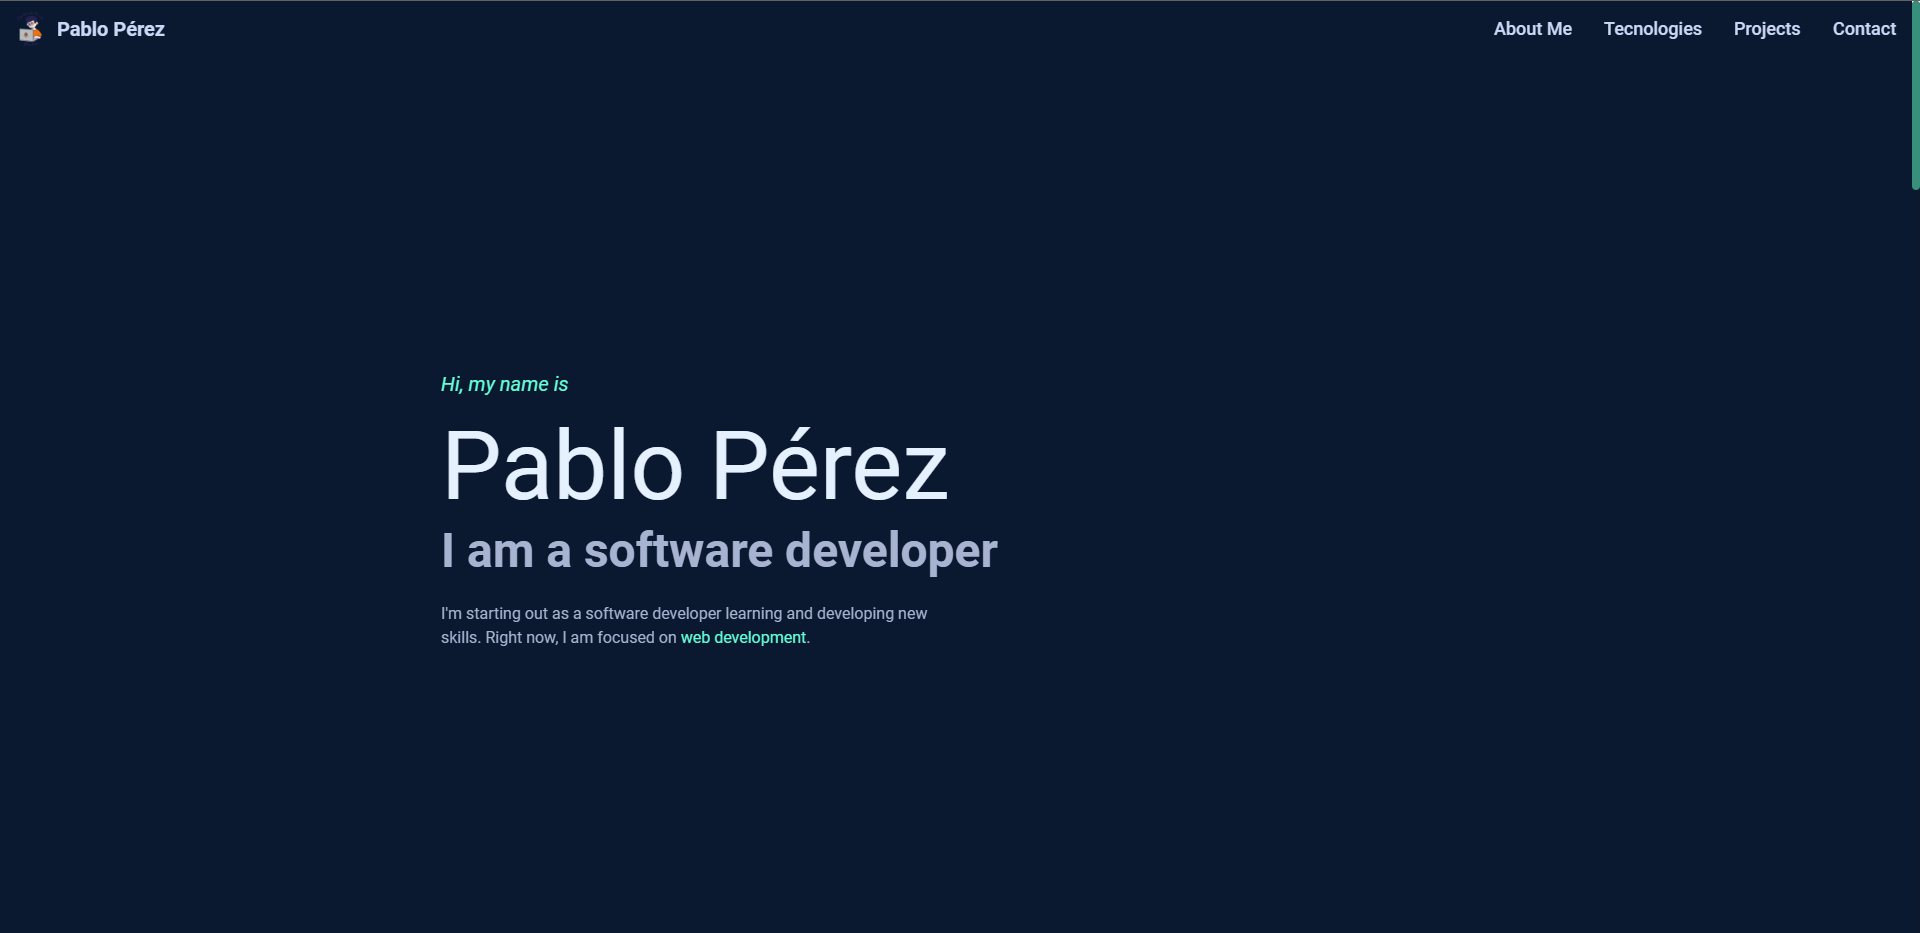
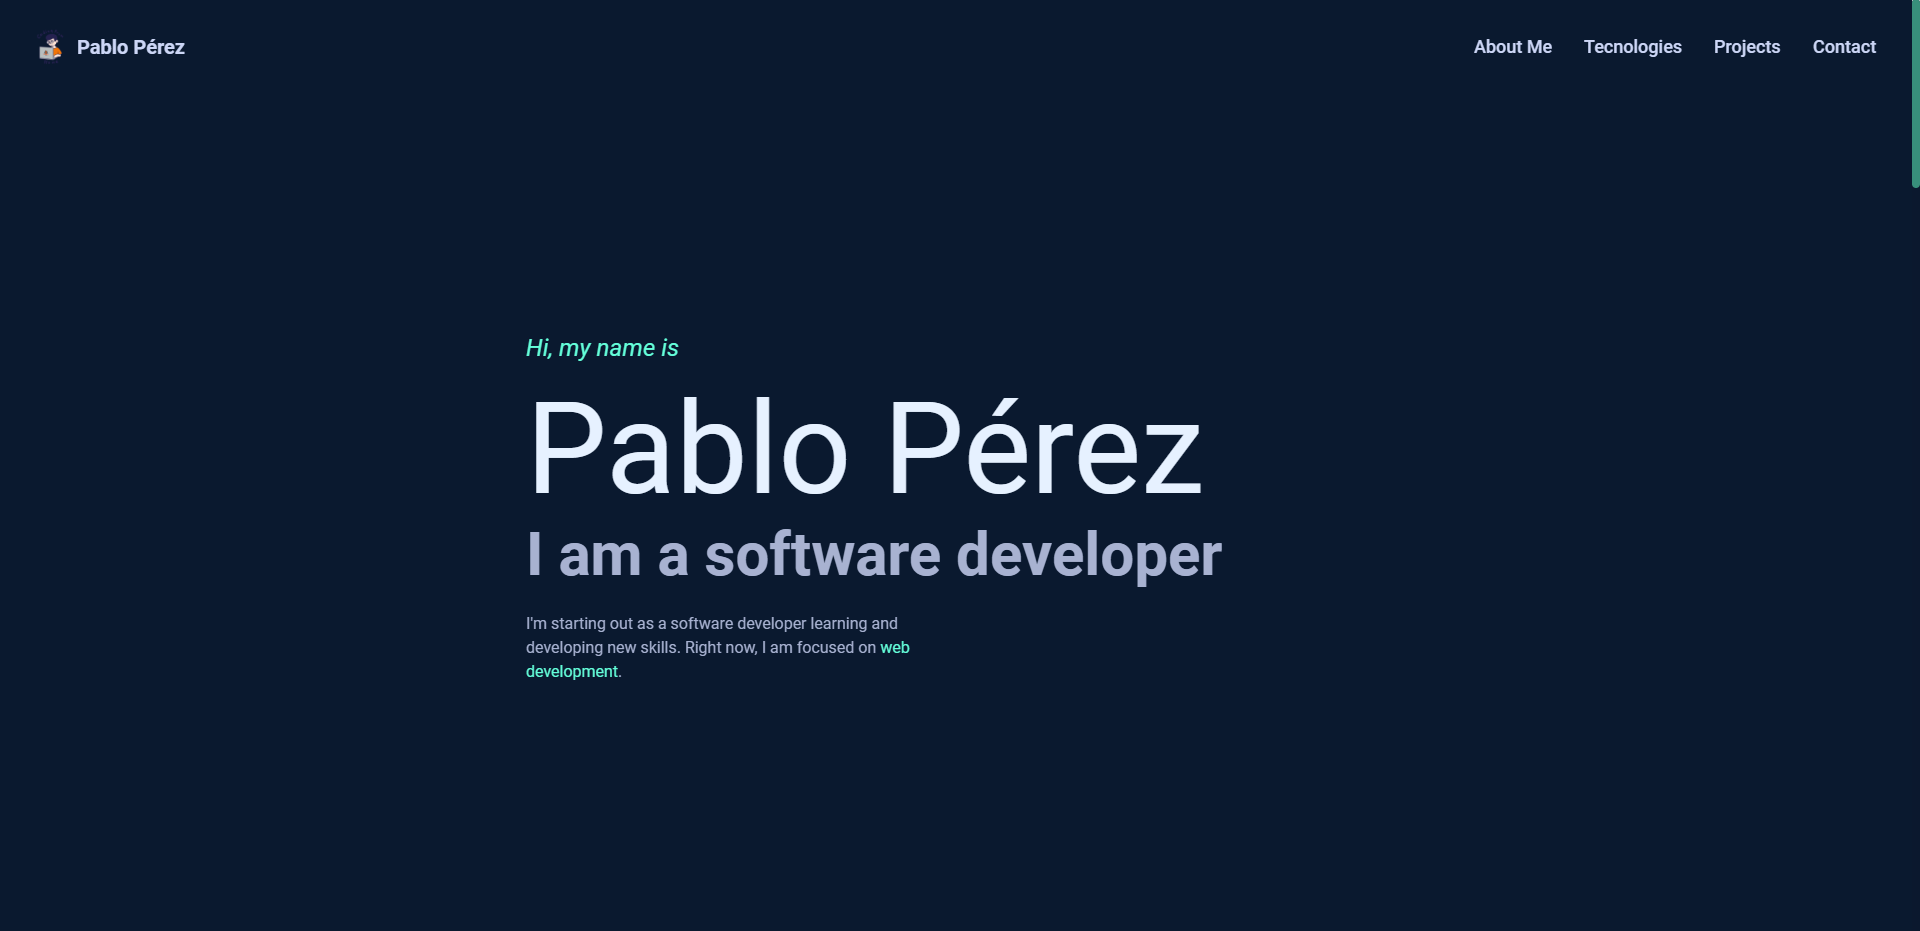
a

diff --git a/src/components/MainNavbar.jsx b/src/components/MainNavbar.jsx
@@ -5,7 +5,7 @@ function MainNavbar() {
     <Navbar
       fluid={true}
       rounded={true}
-      className='absolute left-0 top-0 w-full !bg-transparent text-xl'
+      className='absolute left-0 top-0 w-full !bg-transparent md:text-xl text-lg'
     >
       <Navbar.Brand className="p-5">
         <img
@@ -18,7 +18,7 @@ function MainNavbar() {
         </span>
       </Navbar.Brand>
       <Navbar.Toggle />
-      <Navbar.Collapse className="p-5">
+      <Navbar.Collapse className="p-5 pt-0">
         <Navbar.Link href="#about-me" className="hover:!bg-transparent animate__animated animate__zoomIn">
           <p className="text-lightest-slate text-lg hover:text-mygreen duration-200">About Me</p>
         </Navbar.Link>
